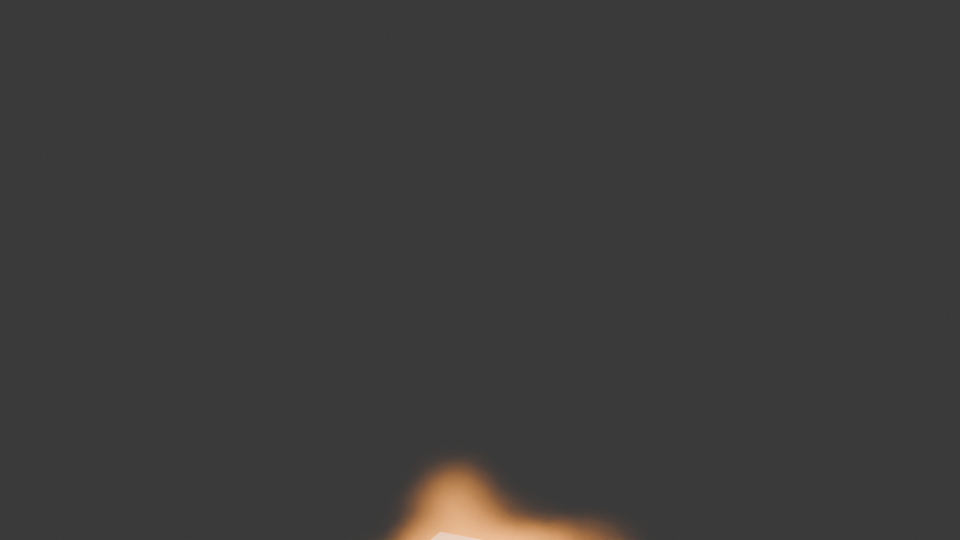
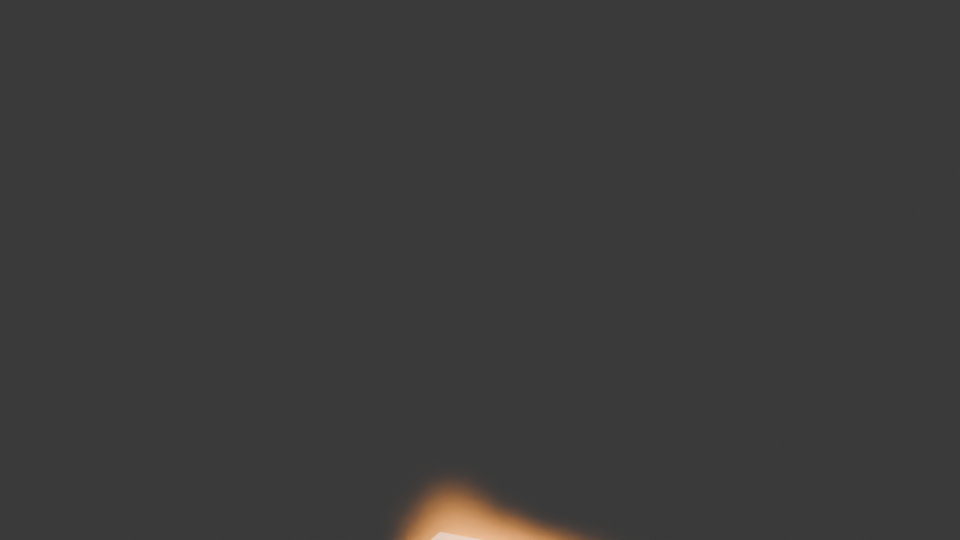
Expert-band turbulence, profile-derived flame ignition, timeline-derived dissolve, calibrated burst flow heat (Phase 3)

Changed region(s): [[0.4062, 0.8296, 0.6562, 1.0]]

diff --git a/blastfx/simulation/physical_config.py b/blastfx/simulation/physical_config.py
@@ -39,6 +39,8 @@ def build_simulation_config(
     smoke_density=1.0,
     fire_temperature=1.0,
     profile=None,
+    timeline_duration_s=0.0,
+    fps=24.0,
 ):
     quality_factor = {"DRAFT": 0.5, "PREVIEW": 1.0, "FINAL": 1.5}.get(quality, 1.0)
     base_resolution = resolution or 128
@@ -52,19 +54,23 @@ def build_simulation_config(
         voxel_size_m=max(derived.characteristic_radius_m / domain_resolution, 1e-5),
         characteristic_velocity_mps=max(0.1, float(derived.characteristic_velocity_mps)),
         time_scale_multiplier=1.0,
-        turbulence_strength=max(0.0, min(4.0, float(turbulence) * turbulence_base)),
+        # Expert ceiling for vorticity is 0.2 (froth above it); artist
+        # turbulence 1.0 maps into the middle of the band.
+        turbulence_strength=max(0.0, min(0.2, float(turbulence) * turbulence_base * 0.12)),
         buoyancy_density=max(0.0, min(5.0, multiplier.buoyancy_density if multiplier else (0.8 + 0.15 * intensity))),
         buoyancy_heat=max(0.0, min(5.0, multiplier.buoyancy_heat if multiplier else (1.0 + 0.35 * intensity))),
         burning_rate=max(0.05, min(4.0, multiplier.burning_rate if multiplier else (0.9 / max(intensity, 0.25)))),
         flame_smoke=max(0.0, min(8.0, float(smoke_density) * (multiplier.flame_smoke if multiplier else (1.0 + 0.25 * intensity)))),
         flame_vorticity=max(0.0, min(2.0, multiplier.flame_vorticity if multiplier else (0.25 + 0.08 * intensity))),
-        flame_ignition=max(0.5, min(5.0, 1.5)),
+        flame_ignition=max(0.5, min(5.0, multiplier.flame_ignition if multiplier else 1.5)),
         flame_max_temp=max(1.0, min(10.0, 3.0 + 0.25 * intensity)),
         noise_strength=multiplier.noise_strength if multiplier else 1.0,
         noise_pos_scale=multiplier.noise_scale if multiplier else 2.0,
         noise_time_anim=0.1,
         use_dissolve_smoke=True,
-        dissolve_speed=150,
+        # Smoke starts dissolving over the last quarter of the timeline
+        # (research: ~40-45 frames of linger for a 6-8 s blast).
+        dissolve_speed=max(12, int(round(timeline_duration_s * fps * 0.25))),
         temperature_scale=max(0.1, min(10.0, float(fire_temperature) * (multiplier.temperature if multiplier else (1.0 + intensity)))),
         density_scale=max(0.1, min(10.0, float(smoke_density) * (multiplier.density if multiplier else 1.0))),
         seed=int(seed),

diff --git a/blastfx/core/explosion_profile.py b/blastfx/core/explosion_profile.py
@@ -90,6 +90,8 @@ class ExplosionProfile:
     dust_density_factor: float = 2.0
     dust_velocity_random: float = 0.65
     dust_velocity_normal_factor: float = 0.30
+    flame_ignition: float = 1.5
+    flow_heat: float = 0.90
     burst_count: int = 1200
     burst_normal_velocity: float = 4.5
     burst_random_velocity: float = 4.5
@@ -111,23 +113,26 @@ class ExplosionProfile:
 PROFILES = {
     "GROUND": ExplosionProfile(
         0.72, 0.10, 0.75, 1.15, 0.95, 1.5, 0.32, 1.15, 0.38, 1.25,
-        1.0, 1.1, 1.05, 0.8, 1, 0.8, 1.15, ground_surge=True, shockwave_delay=0.12,
+        1.0, 2.2, 1.05, 0.8, 1, 0.8, 1.15, ground_surge=True, shockwave_delay=0.12,
         camera_distance_factor=2.0,
+        flame_ignition=1.2, flow_heat=1.0,
         burst_count=1400, burst_normal_velocity=5.0, burst_random_velocity=3.5,
     ),
     "FUEL": ExplosionProfile(
         1.0, 1.25, 2.5, 1.35, 1.25, 1.15, 0.6, 0.32, 0.78, 2.25,
-        1.15, 1.35, 1.45, 1.2, 2, 2.2, 1.4, shockwave_delay=0.18,
+        1.15, 2.7, 1.45, 1.2, 2, 2.2, 1.4, shockwave_delay=0.18,
         camera_distance_factor=2.2,
+        flame_ignition=1.5, flow_heat=0.9,
         burst_count=1800, burst_normal_velocity=4.5, burst_random_velocity=4.5,
     ),
     "LARGE": ExplosionProfile(
         1.45, 0.56, 1.45, 1.2, 1.55, 1.08, 0.48, 0.65, 0.62, 2.7,
-        1.3, 1.55, 1.65, 1.4, 2, 2.8, 1.9, stem=True, ground_surge=True,
+        1.3, 3.1, 1.65, 1.4, 2, 2.8, 1.9, stem=True, ground_surge=True,
         shockwave_delay=0.16, shockwave_radius_factor=6.0,
         camera_distance_factor=2.5,
         dust_duration_factor=0.85, dust_density_factor=0.8,
         dust_velocity_random=0.25, dust_velocity_normal_factor=0.12,
+        flame_ignition=1.8, flow_heat=0.85,
         burst_count=2400, burst_normal_velocity=4.0, burst_random_velocity=5.0,
     ),
 }

diff --git a/blastfx/core/explosion.py b/blastfx/core/explosion.py
@@ -47,6 +47,8 @@ def create_explosion(context):
 
     derived = derive_physics(physical_config)
     profile = profile_for(props.explosion_type)
+    fps = context.scene.render.fps / context.scene.render.fps_base
+    timeline_duration = derived.characteristic_time_s / max(float(props.speed), 0.05)
     numerical = build_simulation_config(
         derived,
         props.quality,
@@ -57,9 +59,9 @@ def create_explosion(context):
         props.smoke_density,
         props.fire_temperature,
         profile,
+        timeline_duration_s=timeline_duration,
+        fps=fps,
     )
-    fps = context.scene.render.fps / context.scene.render.fps_base
-    timeline_duration = derived.characteristic_time_s / max(float(props.speed), 0.05)
     frame_start = int(props.start_frame)
     frame_end = frame_start + max(1, int(round(timeline_duration * fps)))
     domain_envelope = build_domain_envelope(
@@ -162,6 +164,8 @@ def rebuild_explosion(context, controller):
 
     derived = derive_physics(physical_config)
     profile = profile_for(props.explosion_type)
+    fps = context.scene.render.fps / context.scene.render.fps_base
+    timeline_duration = derived.characteristic_time_s / max(float(props.speed), 0.05)
     numerical = build_simulation_config(
         derived,
         props.quality,
@@ -172,9 +176,9 @@ def rebuild_explosion(context, controller):
         props.smoke_density,
         props.fire_temperature,
         profile,
+        timeline_duration_s=timeline_duration,
+        fps=fps,
     )
-    fps = context.scene.render.fps / context.scene.render.fps_base
-    timeline_duration = derived.characteristic_time_s / max(float(props.speed), 0.05)
     frame_start = int(props.start_frame)
     frame_end = frame_start + max(1, int(round(timeline_duration * fps)))
     domain_envelope = build_domain_envelope(

diff --git a/blastfx/simulation/burst.py b/blastfx/simulation/burst.py
@@ -82,13 +82,16 @@ def _build_burst_flow(context, collection, controller, config, suffix, upper):
 
     _, flow = configure_fluid_modifier(obj, "FLOW")
     # Initial velocity comes from the particle system; the cap mesh itself
-    # never injects (flow_source=PARTICLE_SYSTEM).
+    # never injects (flow_source=PARTICLE_SYSTEM). Research flow-heat trick:
+    # keep the injected temperature tiny (profile.flow_heat ~ 0.05, the
+    # Mantaflow "Flow Heat" slider maps to this RNA property) so buoyancy
+    # doesn't blow the fire out and burning stays visible longer.
     configure_flow(
         flow,
         flow_type="BOTH",
         flow_source="PARTICLES",
         particle_system=psys,
-        temperature=numerical.temperature_scale,
+        temperature=profile.flow_heat * numerical.temperature_scale,
         density=numerical.density_scale,
         fuel=profile.fuel_amount,
         subframes=5,

diff --git a/blastfx/animation/__init__.py b/blastfx/animation/__init__.py
@@ -19,6 +19,8 @@ def _animation_config(context, props):
         ambient=AmbientConditions(gravity=gravity_magnitude(context.scene.gravity)),
     ))
     profile = profile_for(props.explosion_type)
+    fps = context.scene.render.fps
+    timeline_duration_s = physical.characteristic_time_s / max(float(props.speed), 0.05)
     numerical = build_simulation_config(
         physical,
         props.quality,
@@ -29,8 +31,9 @@ def _animation_config(context, props):
         props.smoke_density,
         props.fire_temperature,
         profile,
+        timeline_duration_s=timeline_duration_s,
+        fps=context.scene.render.fps / context.scene.render.fps_base,
     )
-    timeline_duration_s = physical.characteristic_time_s / max(float(props.speed), 0.05)
     return {
         "type": props.explosion_type,
         "preset": props.preset_id,

diff --git a/blastfx/simulation/__init__.py b/blastfx/simulation/__init__.py
@@ -24,6 +24,8 @@ def build_explosion(context, collection, controller, props):
     )
 
     profile = profile_for(props.explosion_type)
+    fps = context.scene.render.fps / context.scene.render.fps_base
+    timeline = physical.characteristic_time_s / max(float(props.speed), 0.05)
     numerical = build_simulation_config(
         physical,
         props.quality,
@@ -34,6 +36,8 @@ def build_explosion(context, collection, controller, props):
         props.smoke_density,
         props.fire_temperature,
         profile,
+        timeline_duration_s=timeline,
+        fps=fps,
     )
 
     config = {

diff --git a/blastfx/simulation/domain.py b/blastfx/simulation/domain.py
@@ -63,7 +63,7 @@ def build_domain(context, collection, controller, config):
         gravity=Vector(context.scene.gravity),
         alpha=max(-5.0, min(5.0, numerical.buoyancy_density)),
         beta=max(-5.0, min(5.0, numerical.buoyancy_heat)),
-        vorticity=max(0.0, min(4.0, numerical.turbulence_strength)),
+        vorticity=max(0.0, min(0.2, numerical.turbulence_strength)),
         burning_rate=max(0.01, min(4.0, numerical.burning_rate)),
         flame_smoke=max(0.0, min(8.0, numerical.flame_smoke)),
         flame_vorticity=max(0.0, min(2.0, numerical.flame_vorticity)),

diff --git a/tests/test_simulation_config.py b/tests/test_simulation_config.py
@@ -41,7 +41,8 @@ def test_artist_simulation_controls_reach_derived_configuration():
         fire_temperature=2.0,
     )
 
-    assert config.turbulence_strength > 0.7
+    # Artist turbulence maps into the expert vorticity band (ceiling 0.2).
+    assert 0.05 < config.turbulence_strength <= 0.2
     assert config.density_scale == 2.0
     assert config.temperature_scale > 3.0
 
